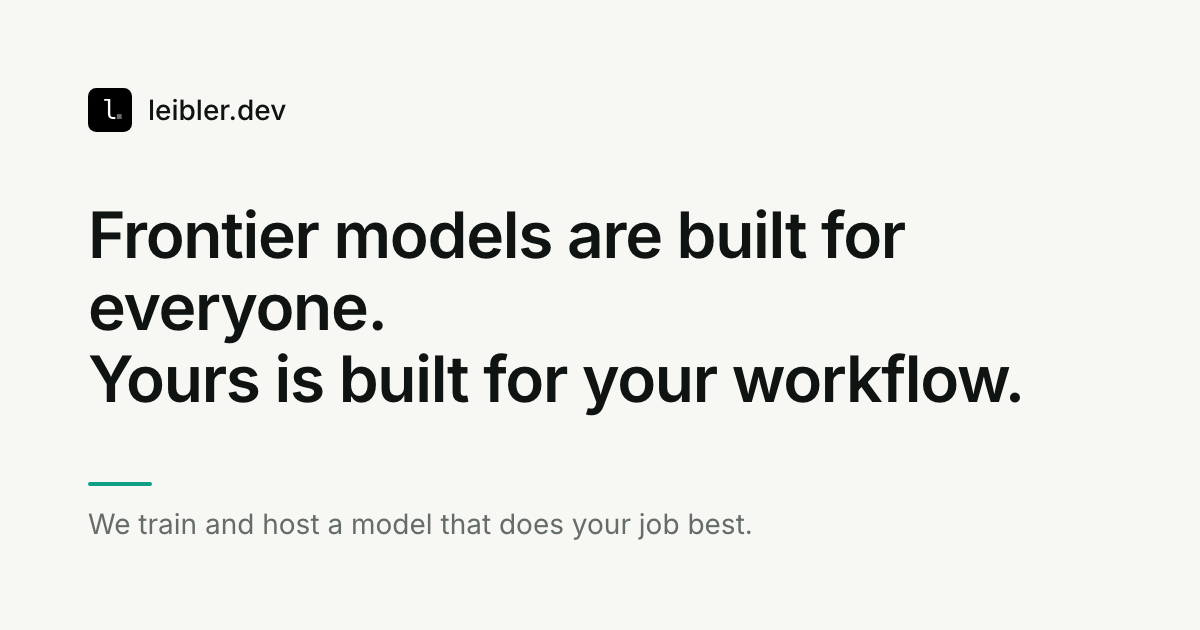
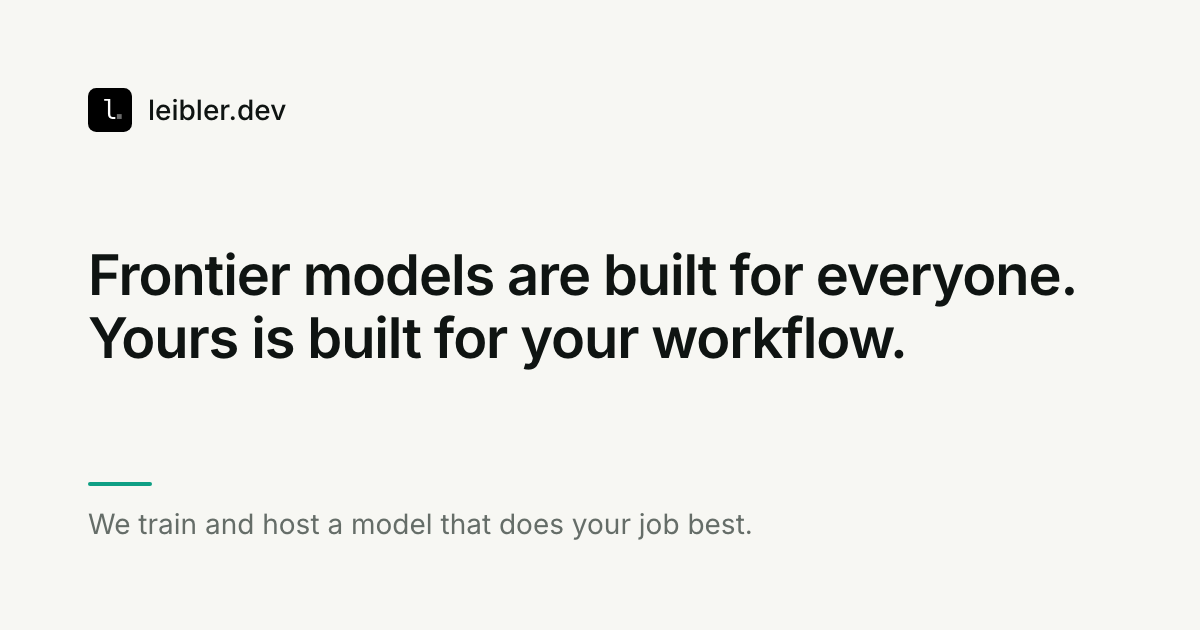
Social image: headline fits on two lines

Changed region(s): [[0.0617, 0.3317, 0.8942, 0.6635]]

diff --git a/tools/og.html b/tools/og.html
@@ -19,7 +19,7 @@ body{font-family:'Inter',-apple-system,BlinkMacSystemFont,'Segoe UI',sans-serif;
 .canvas{width:1200px;height:630px;padding:88px;display:flex;flex-direction:column;justify-content:space-between;gap:40px}
 .brand{display:flex;align-items:center;gap:16px;font-weight:500;font-size:28px;line-height:1}
 .brand svg{display:block;flex:none}
-h1{font-weight:600;font-size:64px;line-height:1.12;letter-spacing:-0.02em;max-width:1000px}
+h1{font-weight:600;font-size:56px;line-height:1.12;letter-spacing:-0.02em;max-width:1024px}
 .bar{width:64px;height:4px;border-radius:2px;background:var(--accent);margin-bottom:20px}
 .sub{font-weight:400;font-size:28px;line-height:1.3;color:var(--muted)}
 </style>
